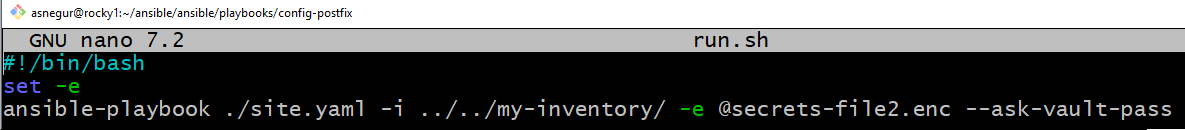
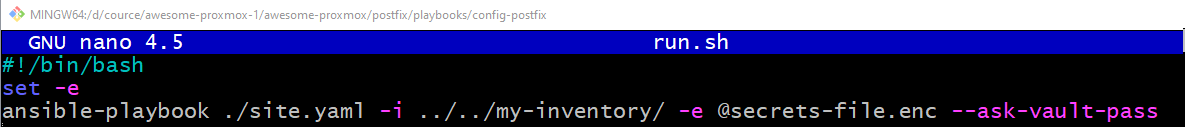
Lesson-50 Changed postfix/README.md

diff --git a/postfix/README.md b/postfix/README.md
@@ -41,19 +41,19 @@
   cd ./playbooks/config-postfix
   ```
 
-  - copy `./secrets-file.enc.example` file to `./secrets-file2.enc` and edit last one
+  - copy `./secrets-file.enc.example` file to `./secrets-file.enc` and edit last one
   
   ![secrets](./images/secrets-file.png)
 
-  Encrypt `./secrets-file2.enc`  file and set a password by command
+  Encrypt `./secrets-file.enc`  file and set a password by command
 
   ```
-  ansible-vault encrypt secrets-file2.enc
+  ansible-vault encrypt secrets-file.enc
   ```
 
   ![encrypt file](./images/secrets-file_1.png)
 
-  `./secrets-file2.enc`  file is encrypted
+  `./secrets-file.enc`  file is encrypted
 
   ![encrypted_file file](./images/encrypted_file.png)
 
@@ -69,7 +69,7 @@
   Navigate to `./playbooks/config-postfix` and run command
 
   ```
-  ansible-playbook ./site.yaml -i ../../my-inventory/ -e @secrets-file2.enc --ask-vault-pass
+  ansible-playbook ./site.yaml -i ../../my-inventory/ -e @secrets-file.enc --ask-vault-pass
   ```
   
   You can edit the file `./playbooks/config-postfix/run.sh` by pasting the above command in place of the existing one and run
